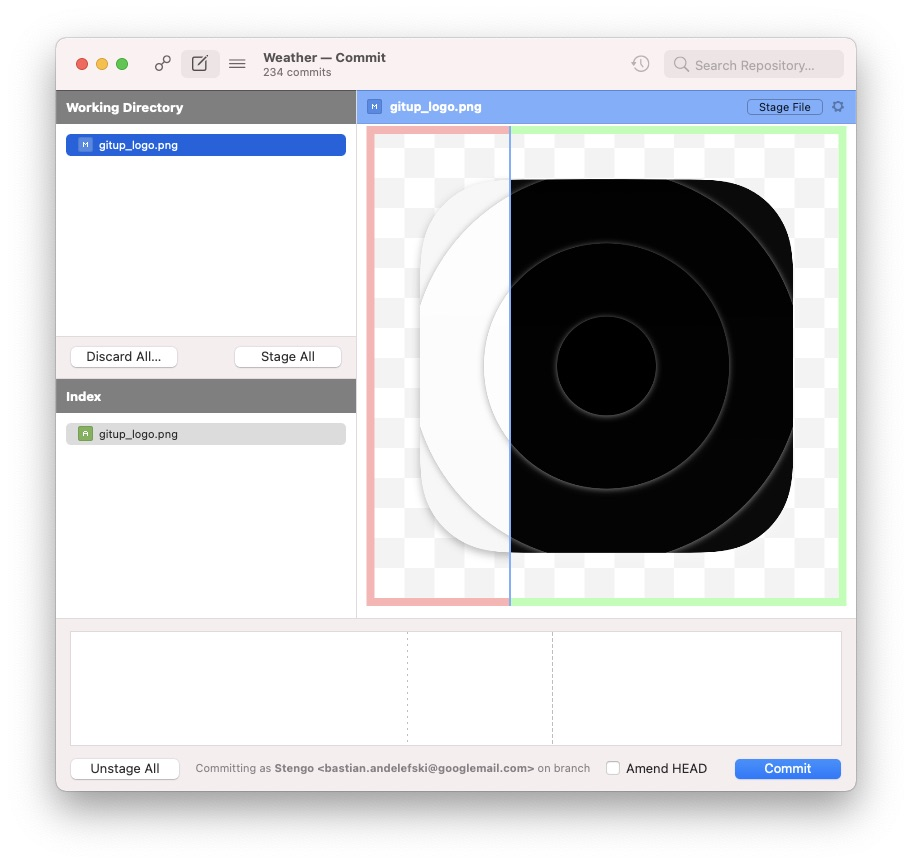
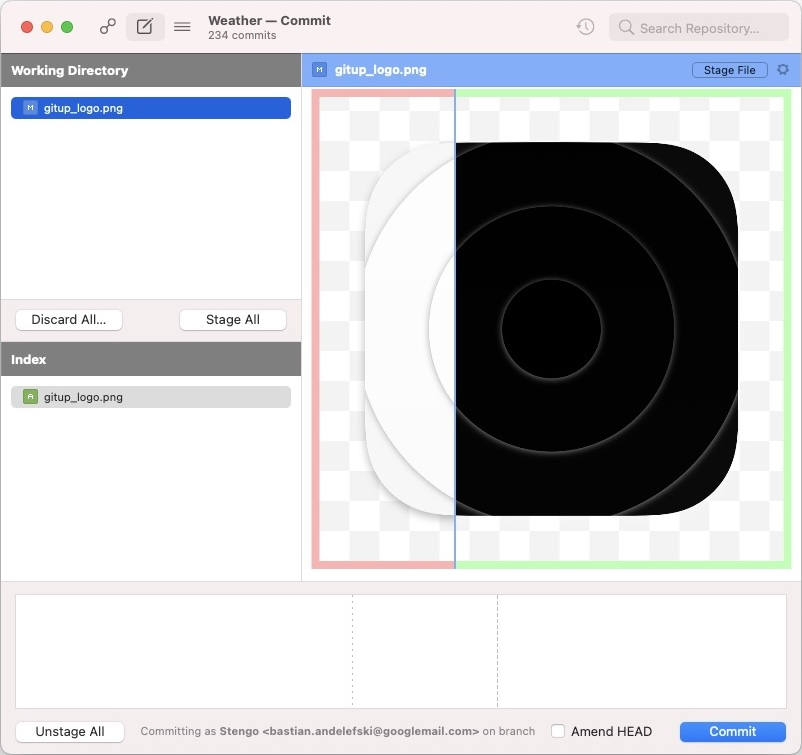
Remove image border

diff --git a/_site/2017/02/17/feature-learning/index.html b/_site/2017/02/17/feature-learning/index.html
@@ -201,7 +201,7 @@ During my studies at <a href="https://www.rwth-aachen.de/" target="_blank" rel="
 
       <footer>
         <p class="copyright">
-          <!-- &copy; <time datetime="2023-12-03T12:27:57+01:00">2023</time>. -->
+          <!-- &copy; <time datetime="2023-12-03T18:24:28+01:00">2023</time>. -->
           This site is based on the beautiful
           <a href="https://github.com/jamigibbs/portfolio" target="_blank" rel="noopener noreferrer">portfolio</a>
           Jekyll template created by

diff --git a/_site/2021/03/09/exposition/index.html b/_site/2021/03/09/exposition/index.html
@@ -201,7 +201,7 @@ During my studies at <a href="https://www.rwth-aachen.de/" target="_blank" rel="
 
       <footer>
         <p class="copyright">
-          <!-- &copy; <time datetime="2023-12-03T12:27:57+01:00">2023</time>. -->
+          <!-- &copy; <time datetime="2023-12-03T18:24:28+01:00">2023</time>. -->
           This site is based on the beautiful
           <a href="https://github.com/jamigibbs/portfolio" target="_blank" rel="noopener noreferrer">portfolio</a>
           Jekyll template created by

diff --git a/_site/2021/10/12/gitup-image-diffing/index.html b/_site/2021/10/12/gitup-image-diffing/index.html
@@ -201,7 +201,7 @@ During my studies at <a href="https://www.rwth-aachen.de/" target="_blank" rel="
 
       <footer>
         <p class="copyright">
-          <!-- &copy; <time datetime="2023-12-03T12:27:57+01:00">2023</time>. -->
+          <!-- &copy; <time datetime="2023-12-03T18:24:28+01:00">2023</time>. -->
           This site is based on the beautiful
           <a href="https://github.com/jamigibbs/portfolio" target="_blank" rel="noopener noreferrer">portfolio</a>
           Jekyll template created by

diff --git a/_site/2021/12/13/smart-home-remote/index.html b/_site/2021/12/13/smart-home-remote/index.html
@@ -201,7 +201,7 @@ During my studies at <a href="https://www.rwth-aachen.de/" target="_blank" rel="
 
       <footer>
         <p class="copyright">
-          <!-- &copy; <time datetime="2023-12-03T12:27:57+01:00">2023</time>. -->
+          <!-- &copy; <time datetime="2023-12-03T18:24:28+01:00">2023</time>. -->
           This site is based on the beautiful
           <a href="https://github.com/jamigibbs/portfolio" target="_blank" rel="noopener noreferrer">portfolio</a>
           Jekyll template created by

diff --git a/_site/2022/07/10/deskpad/index.html b/_site/2022/07/10/deskpad/index.html
@@ -201,7 +201,7 @@ During my studies at <a href="https://www.rwth-aachen.de/" target="_blank" rel="
 
       <footer>
         <p class="copyright">
-          <!-- &copy; <time datetime="2023-12-03T12:27:57+01:00">2023</time>. -->
+          <!-- &copy; <time datetime="2023-12-03T18:24:28+01:00">2023</time>. -->
           This site is based on the beautiful
           <a href="https://github.com/jamigibbs/portfolio" target="_blank" rel="noopener noreferrer">portfolio</a>
           Jekyll template created by

diff --git a/_site/2022/10/07/overlook-weather/index.html b/_site/2022/10/07/overlook-weather/index.html
@@ -201,7 +201,7 @@ During my studies at <a href="https://www.rwth-aachen.de/" target="_blank" rel="
 
       <footer>
         <p class="copyright">
-          <!-- &copy; <time datetime="2023-12-03T12:27:57+01:00">2023</time>. -->
+          <!-- &copy; <time datetime="2023-12-03T18:24:28+01:00">2023</time>. -->
           This site is based on the beautiful
           <a href="https://github.com/jamigibbs/portfolio" target="_blank" rel="noopener noreferrer">portfolio</a>
           Jekyll template created by

diff --git a/_site/404.html b/_site/404.html
@@ -201,7 +201,7 @@ During my studies at <a href="https://www.rwth-aachen.de/" target="_blank" rel="
 
       <footer>
         <p class="copyright">
-          <!-- &copy; <time datetime="2023-12-03T12:27:57+01:00">2023</time>. -->
+          <!-- &copy; <time datetime="2023-12-03T18:24:28+01:00">2023</time>. -->
           This site is based on the beautiful
           <a href="https://github.com/jamigibbs/portfolio" target="_blank" rel="noopener noreferrer">portfolio</a>
           Jekyll template created by

diff --git a/_site/index.html b/_site/index.html
@@ -201,7 +201,7 @@ During my studies at <a href="https://www.rwth-aachen.de/" target="_blank" rel="
 
       <footer>
         <p class="copyright">
-          <!-- &copy; <time datetime="2023-12-03T12:27:57+01:00">2023</time>. -->
+          <!-- &copy; <time datetime="2023-12-03T18:24:28+01:00">2023</time>. -->
           This site is based on the beautiful
           <a href="https://github.com/jamigibbs/portfolio" target="_blank" rel="noopener noreferrer">portfolio</a>
           Jekyll template created by
